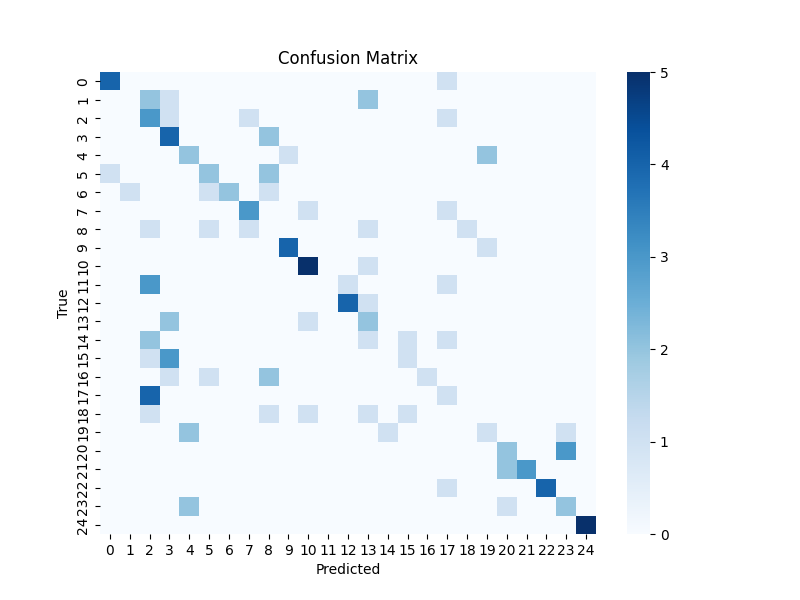
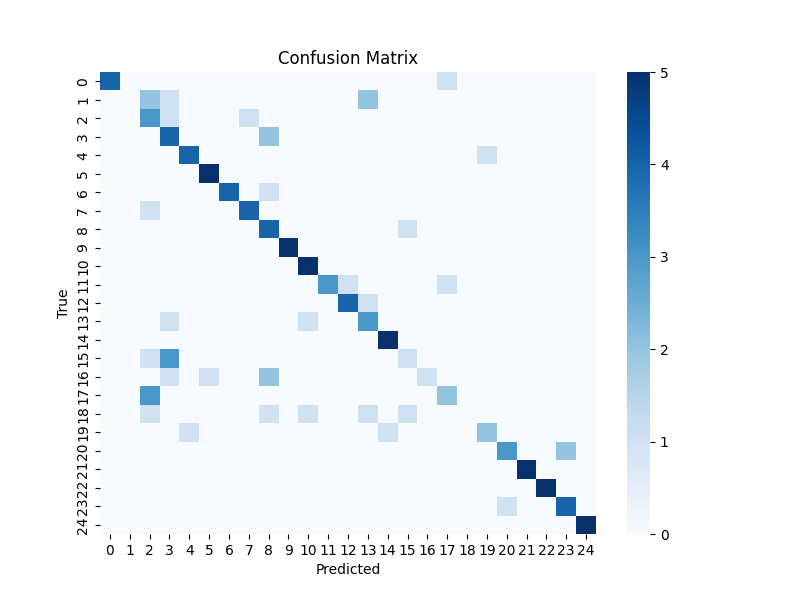
- fixed ca

diff --git a/Data/Tracking/YOLO/Tracker/generate_images_from_recordings.py b/Data/Tracking/YOLO/Tracker/generate_images_from_recordings.py
@@ -82,8 +82,8 @@ def read_csv_files(csv_directory):
         bound_min = min(np.min(df["pos_x"]), np.min(df["pos_z"]), source_x, source_y)
         bound_max = max(np.max(df["pos_x"]), np.max(df["pos_z"]), source_x, source_y)
 
-        bound_max += 2
-        bound_min -= 2
+        bound_max += 0.5
+        bound_min -= 0.5
 
         df["pos_x"] = (df['pos_x'] - bound_min) / (bound_max - bound_min) * (1 - 0) 
         df["pos_z"] = (df['pos_z'] - bound_min) / (bound_max - bound_min) * (1 - 0) 
